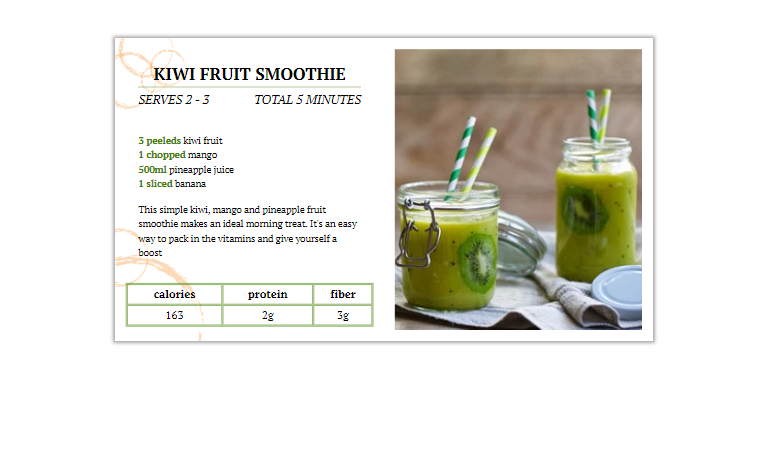
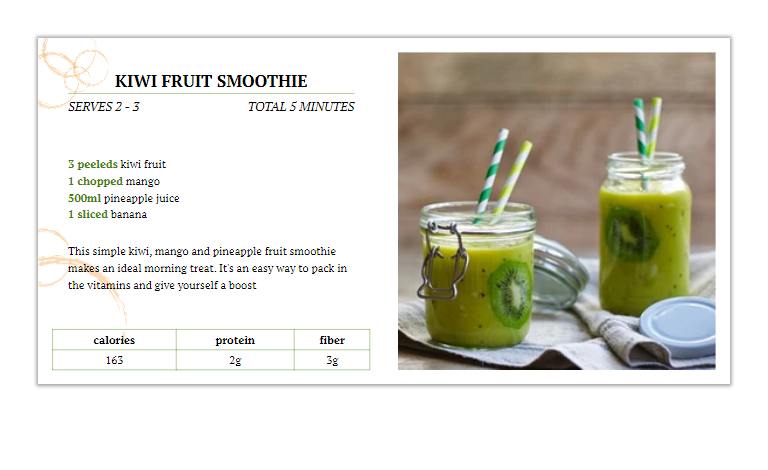
updates

Changed region(s): [[0.0312, 0.0596, 0.9688, 0.834]]

diff --git a/Front_End/HTML_CSS/HTML_EXAM_PREP/HTML-CSS-Regular-Exam-27-Feb-2022/01.Kiwi_Fruit_Smoothie/styles/layout.css b/Front_End/HTML_CSS/HTML_EXAM_PREP/HTML-CSS-Regular-Exam-27-Feb-2022/01.Kiwi_Fruit_Smoothie/styles/layout.css
@@ -10,8 +10,8 @@ body {
 }
 
 .juice {
-    width: 70%;
-    height: 70vh;
+    width: 90%;
+    height: 80vh;
     margin: 5% auto;
     box-shadow: 0px 0px 9px 5px rgba(82, 82, 82, 0.54);
     position: relative;
@@ -31,12 +31,10 @@ body {
     display: flex;
     flex-flow: column wrap;
     width: 100%;
-    /* height: 100%; */
 }
 
 .container {
     width: 50%;
-    /* height: 100%; */
     z-index: 1;
     padding: 2%;
 }
@@ -44,13 +42,10 @@ body {
 .juice-recipe.container {
     display: flex;
     flex-flow: column;
-    /* align-items: center;
-    justify-content: center; */
 }
 
 header,
-main,
-footer {
+main {
     width: 100%;
     height: 100%;
     margin: 0 auto;
@@ -82,12 +77,17 @@ strong {
 /* MAIN */
 .juice-text,
 .juice-recipe-list {
-    font-size: 24px;
+    font-size: 28px;
 }
 
 .juice-text {
-    padding: 5% 0;
+    padding: 7% 0% 7% 0;
 }
+
+.juice-recipe-list{
+    padding-bottom: 5%;
+}
+
 
 
 /* FOOTER */
@@ -108,6 +108,10 @@ th {
     border: 1px solid var(--highlight-clr);
 }
 
+table{
+    border-collapse: collapse;
+}
+
 tr,
 td,
 th {
@@ -117,8 +121,6 @@ th {
 /* JUICE PHOTO */
 
 .juice-photo {
-    /* flex: 1 1 50%; */
-    /* width: 100%; */
     height: 100%;
     object-fit: cover;
     overflow: hidden;
